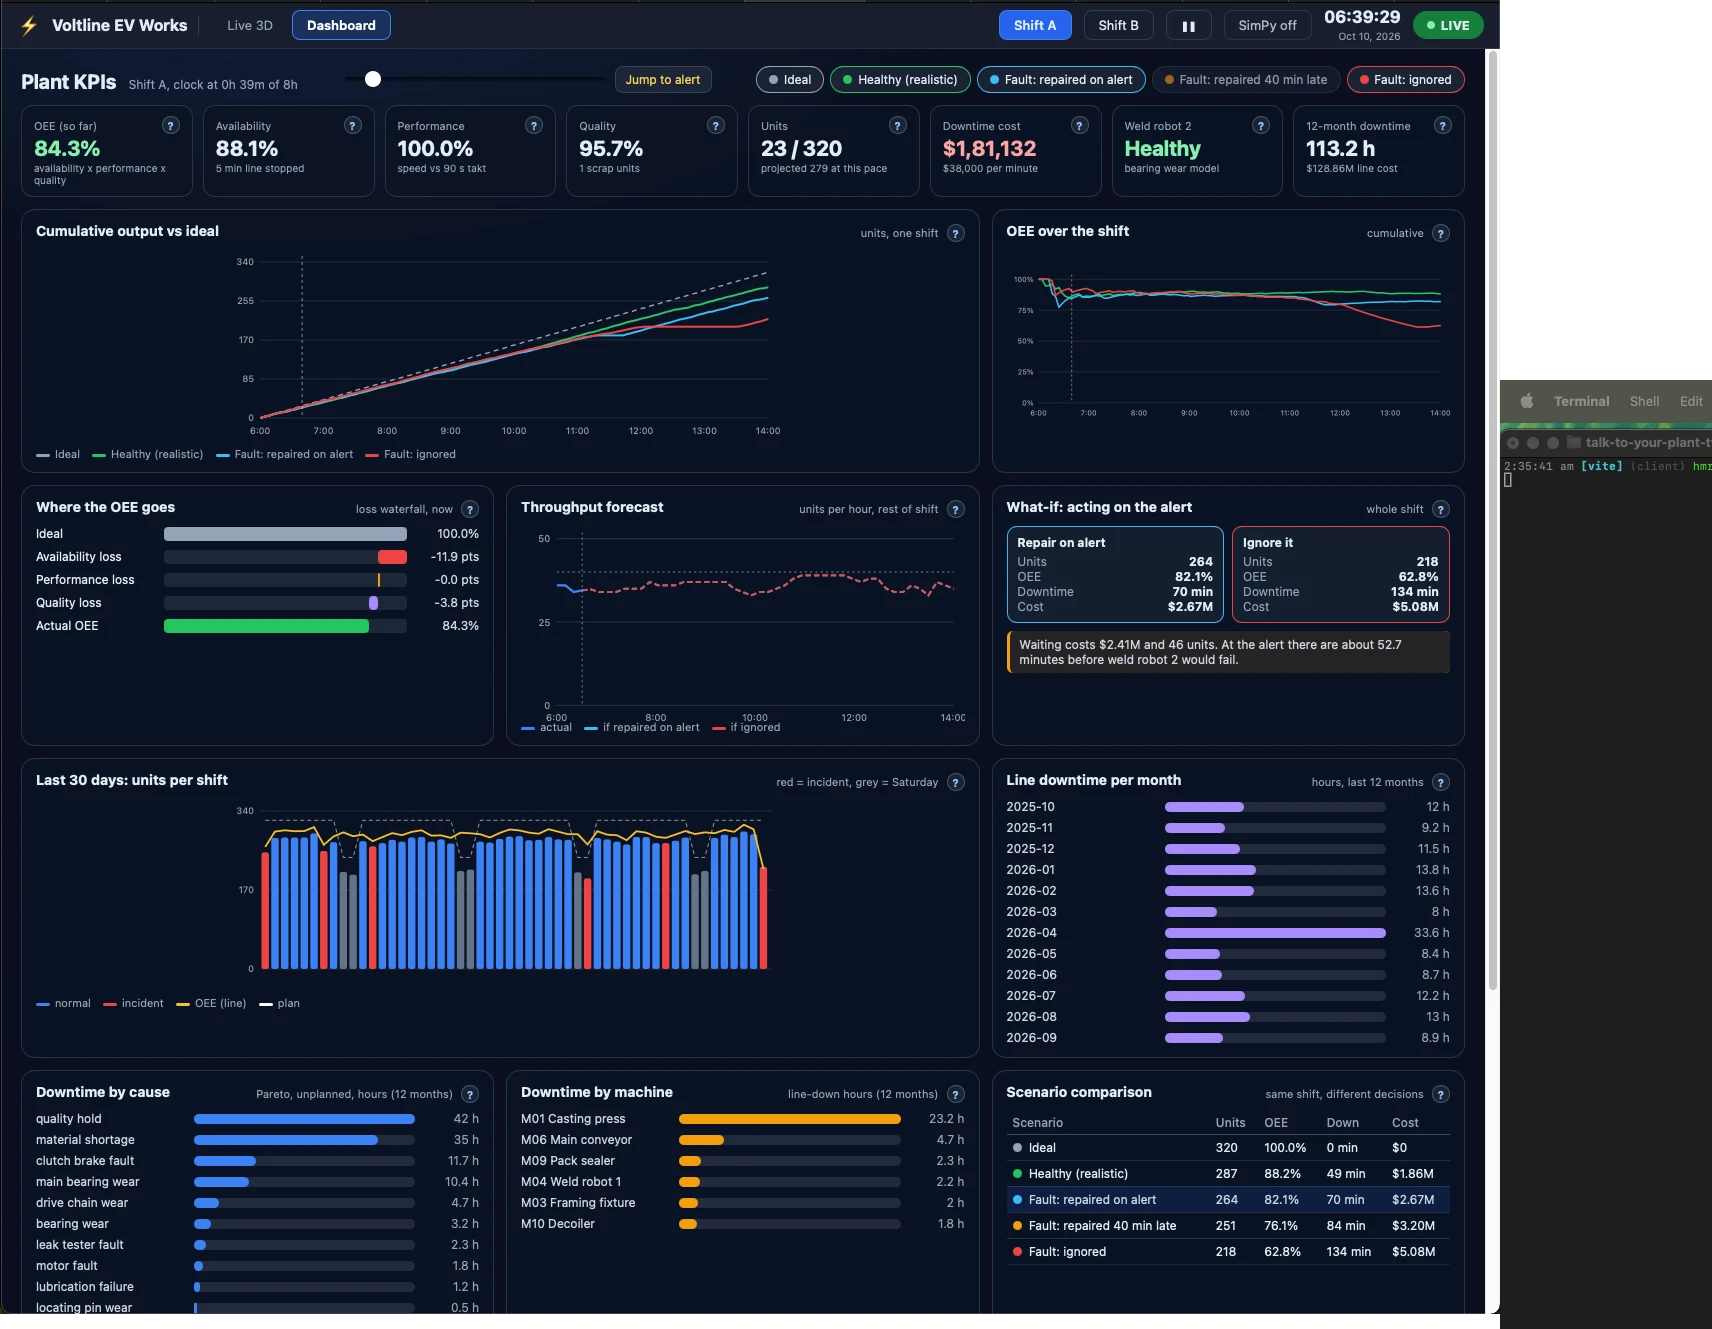
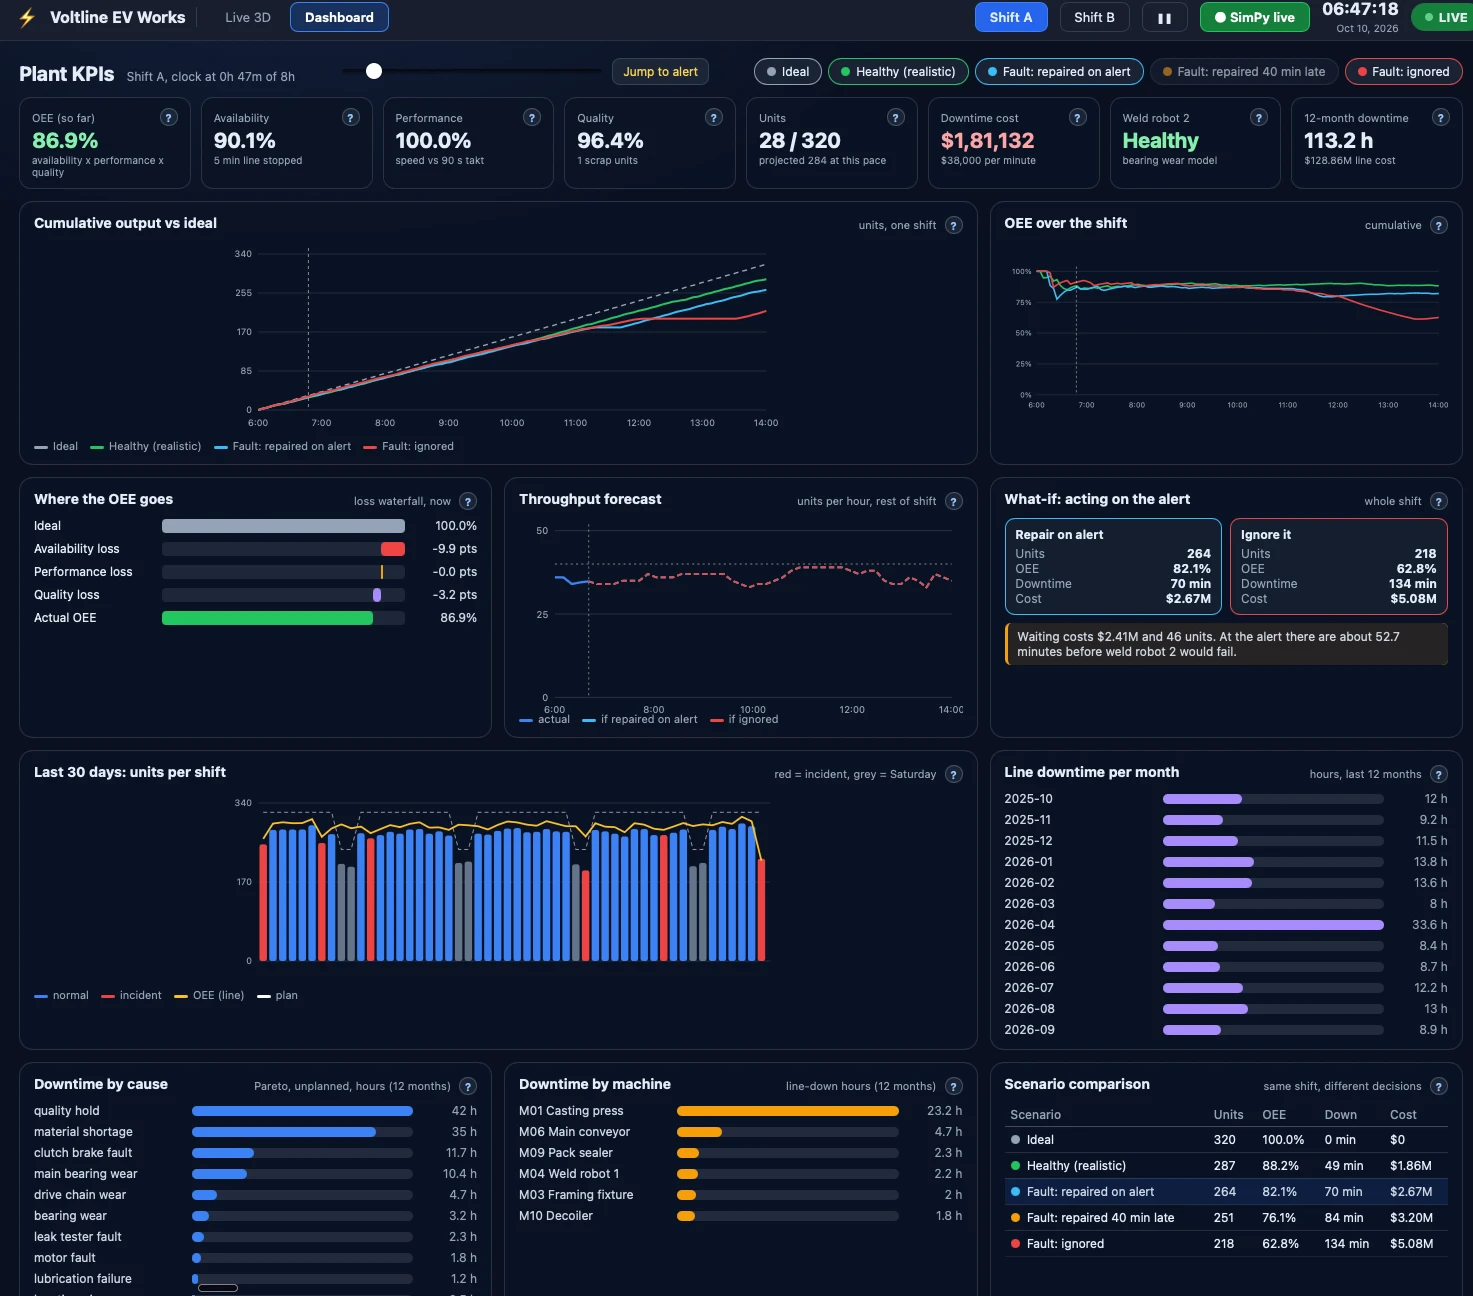
Always connect to the SimPy engine (remove the toggle); use the new dashboard screenshot

diff --git a/twin/src/ui/TopBar.tsx b/twin/src/ui/TopBar.tsx
@@ -1,11 +1,17 @@
 import { useEffect, useState } from "react";
 import { clock, ctl, fmt } from "../clock";
-import { connectSim, disconnectSim } from "../simlink";
+import { connectSim } from "../simlink";
 import { useTwin } from "../state";
 
 export function TopBar() {
   const { shift, setShift, view, setView, sim } = useTwin();
-  useEffect(() => { if (new URLSearchParams(location.search).get("sim") !== null) connectSim(new URLSearchParams(location.search).get("sim") || undefined); }, []);
+  // The engine is always the source of truth: connect on load and keep retrying (the client-side model in plant.ts covers the gap).
+  useEffect(() => {
+    const url = new URLSearchParams(location.search).get("sim") || undefined;
+    connectSim(url);
+    const id = setInterval(() => { if (useTwin.getState().sim === "off") connectSim(url); }, 3000);
+    return () => clearInterval(id);
+  }, []);
   const [, set] = useState(0);
   useEffect(() => {
     const id = setInterval(() => set((n) => n + 1), 250);
@@ -27,7 +33,6 @@ export function TopBar() {
           <button key={s} className={`pill ${s === shift ? "on" : ""}`} onClick={() => { setShift(s); if (sim === "on") ctl.send?.({ type: "control", action: "reset", shift: s }); else clock.t = 0; }}>Shift {s}</button>
         ))}
         <button className="pill" onClick={() => ctl.play(!clock.playing)}>{clock.playing ? "❚❚" : "▶"}</button>
-        <button className={`pill simbtn ${sim}`} title="Connect to the SimPy engine (cd sim && .venv/bin/uvicorn plantsim.api:app --port 8000)" onClick={() => (sim === "off" ? connectSim() : disconnectSim())}>{sim === "on" ? "● SimPy live" : sim === "connecting" ? "SimPy…" : "SimPy off"}</button>
         <div className="clockbox">
           <b>{fmt(clock.t, shift)}</b>
           <span>Oct 10, 2026</span>

diff --git a/CLAUDE.md b/CLAUDE.md
@@ -102,7 +102,7 @@ Twin behaviour per message: `sensor` updates HUD and gauges; `alert` turns the m
 
 ## Simulation engine (sim/)
 
-SimPy model + FastAPI + WebSocket + LLM tool endpoints. See `sim/README.md`. The twin connects with `?sim=ws://localhost:8000/ws` or the top-bar button; when connected, station states, belt cars, KPIs, work orders, technician walks, fault injection, what-if and forecast all come from the engine, otherwise the client-side approximation in `twin/src/plant.ts` is used (D-029, D-030).
+SimPy model + FastAPI + WebSocket + LLM tool endpoints. See `sim/README.md`. The twin connects to the engine automatically on load (retrying every 3 s; `?sim=ws://...` overrides the URL); when connected, station states, belt cars, KPIs, work orders, technician walks, fault injection, what-if and forecast all come from the engine, otherwise the client-side approximation in `twin/src/plant.ts` is used (D-029, D-030).
 
 ## Commands (fill in as the app is scaffolded)
 
